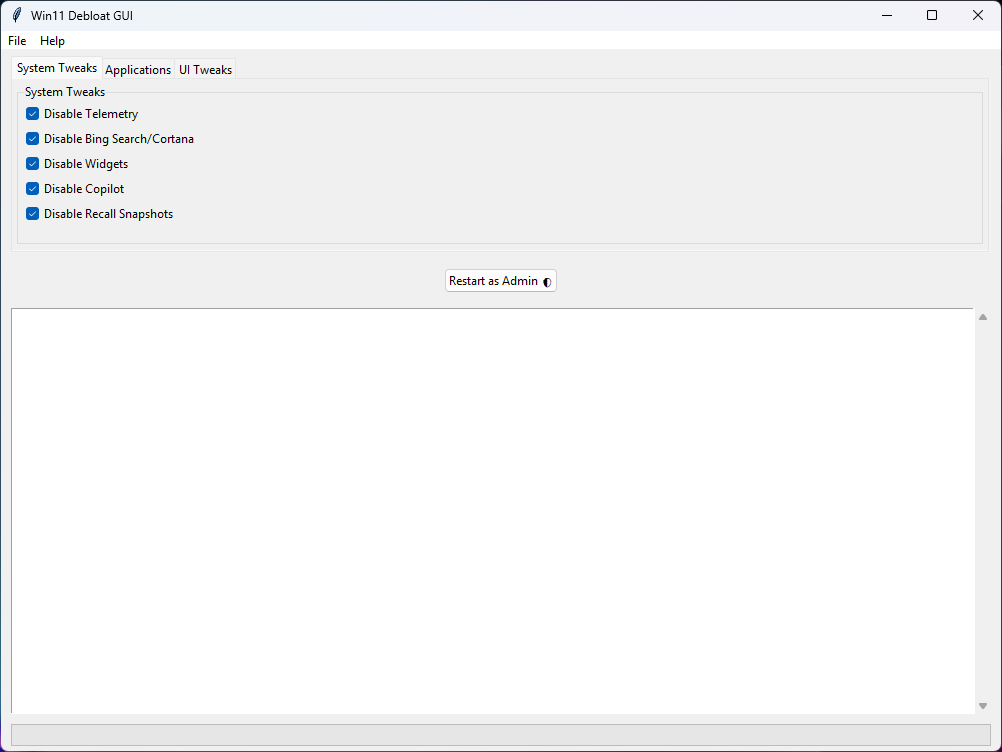
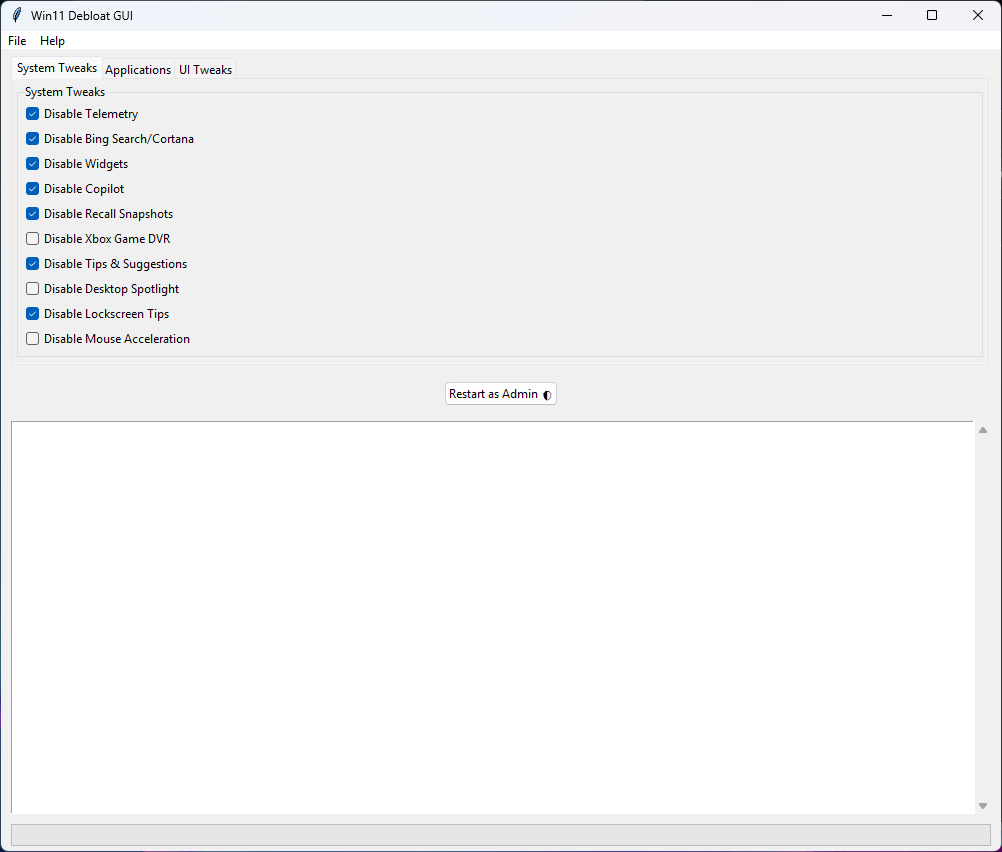
Screenshot updated, geometry updated, radme updates

diff --git a/UI_main.py b/UI_main.py
@@ -25,7 +25,7 @@ class Win11DebloatUI:
     def __init__(self, root):
         self.root = root
         self.root.title("Win11 Debloat GUI")
-        self.root.geometry("1000x700")
+        self.root.geometry("1000x800")
         self.process = None
         self.running = False
         self.settings_file = "debloat_settings.json"

diff --git a/README.md b/README.md
@@ -34,6 +34,17 @@ A user-friendly GUI wrapper for the Win11Debloat PowerShell scripts, providing e
 - PowerShell 5.1+
 - Administrator rights (for full functionality)
 
+## How to use
+
+Checkout the code first!
+``` git clone https://github.com/alporak/Win11Debloat_UI.git ```
+
+Checkout the submodules to download Win11Debloat.
+
+``` git submodule update --init --recursive ```
+``` git submodule sync ```
+
+
 [![OS - Linux](https://img.shields.io/badge/OS-Linux-blue?logo=linux&logoColor=white)](https://www.linux.org/ "Go to Linux homepage")
 [![OS - Windows](https://img.shields.io/badge/OS-Windows-blue?logo=windows&logoColor=white)](https://www.microsoft.com/ "Go to Microsoft homepage")
 
